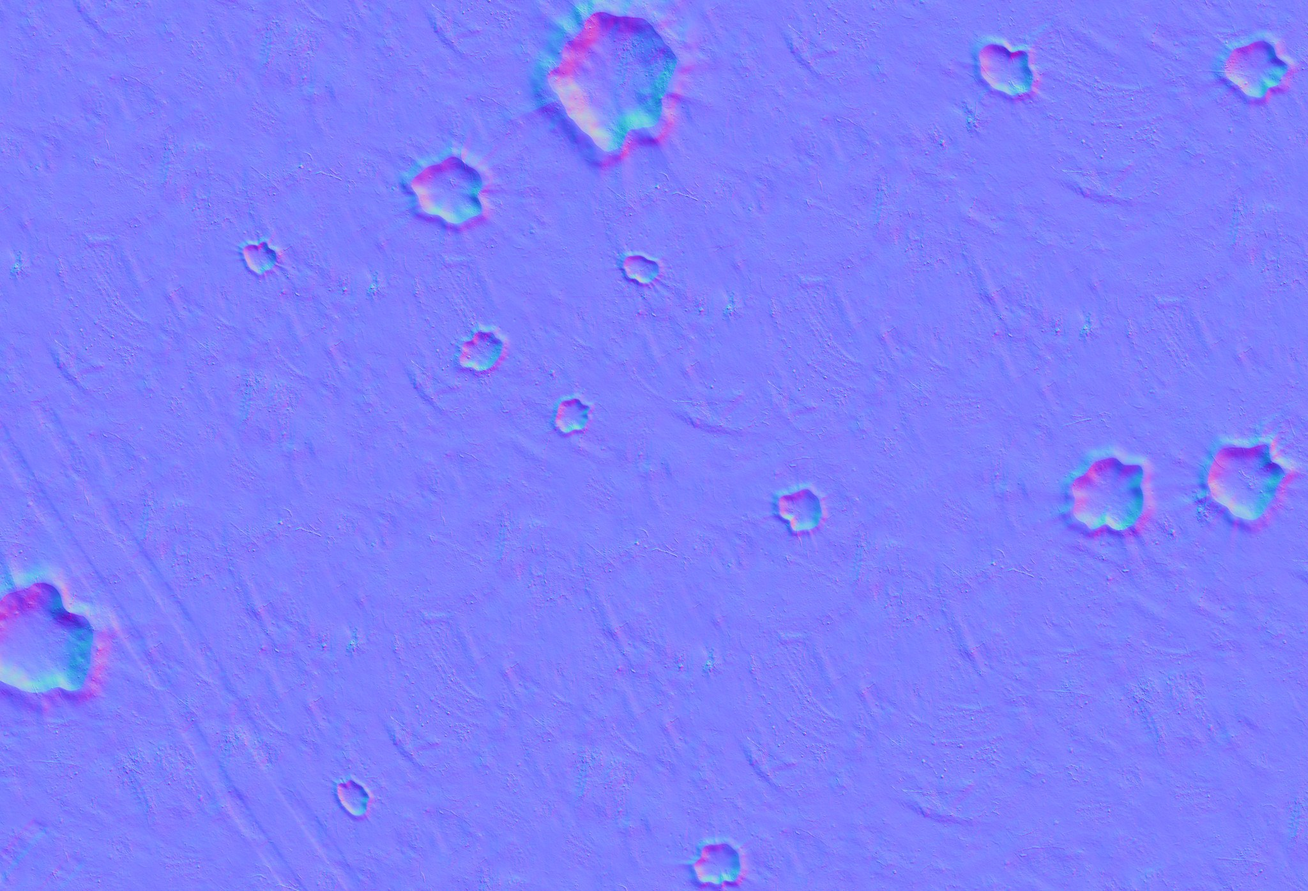
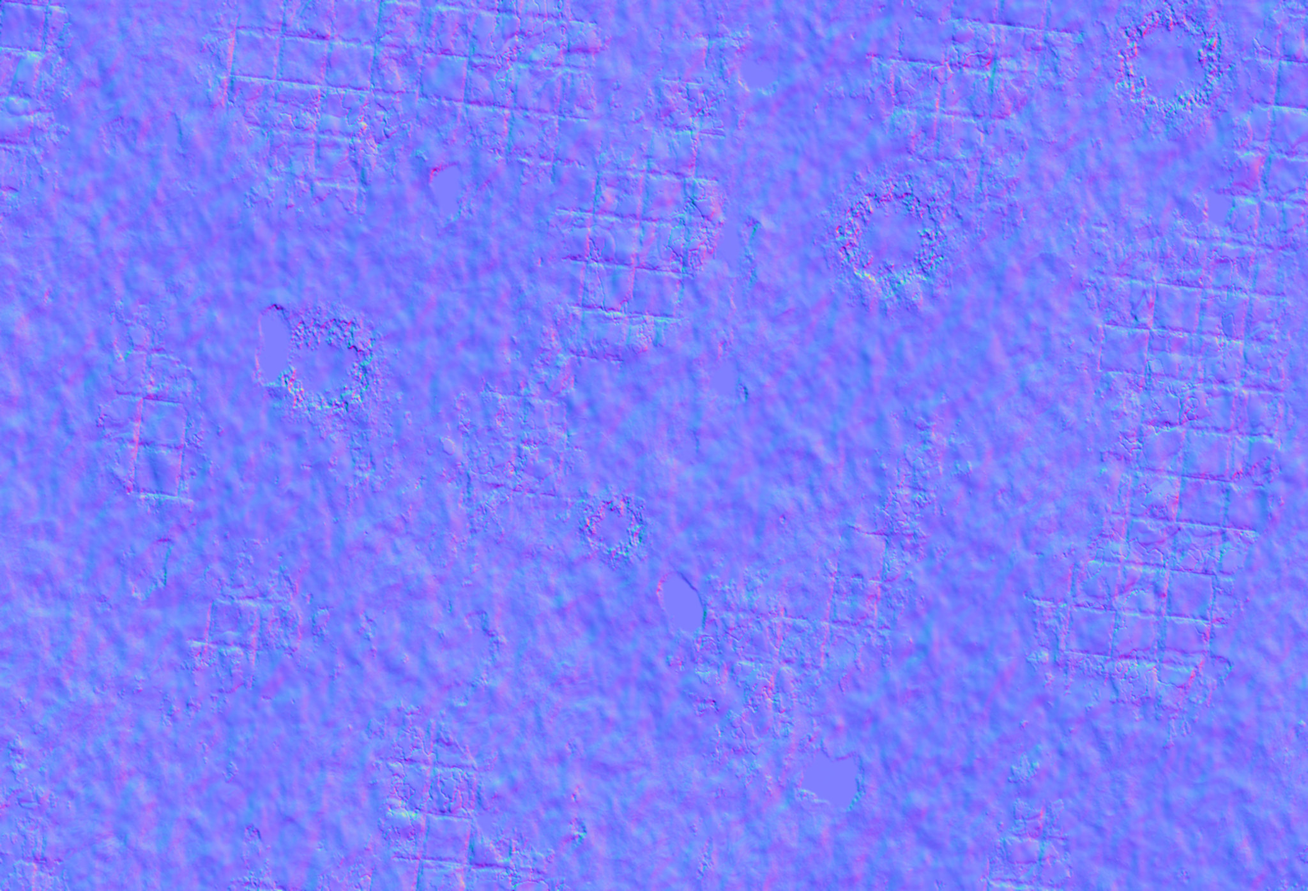
M10: baked de-tiled battlefield mats (paving, dust, scorch) ported from whirr's generator

diff --git a/src/client/board/terrainAssets.ts b/src/client/board/terrainAssets.ts
@@ -77,7 +77,8 @@ export interface PbrTextures {
  *  clone them (see `cloneRepeat`) before setting an instance-specific `.repeat`. */
 export function useTiledPBR(urls: PbrUrls): PbrTextures {
   const [map, normalMap, roughnessMap] = useTexture([urls.map, urls.normalMap, urls.roughnessMap])
-  map.colorSpace = THREE.SRGBColorSpace
+  map.colorSpace = THREE.SRGBColorSpace // albedo is sRGB; normal + roughness stay linear (NoColorSpace)
+  normalMap.colorSpace = roughnessMap.colorSpace = THREE.NoColorSpace
   for (const t of [map, normalMap, roughnessMap]) {
     t.wrapS = t.wrapT = THREE.RepeatWrapping
   }
@@ -115,7 +116,8 @@ export function polygonFootprintSize(polygon: { x: number; z: number }[]): { wid
  *  sRGB diffuse. (Separate from useTiledPBR, which sets RepeatWrapping on the shared cached textures.) */
 export function useBattlefieldPBR(urls: PbrUrls, anisotropy?: number): PbrTextures {
   const [map, normalMap, roughnessMap] = useTexture([urls.map, urls.normalMap, urls.roughnessMap])
-  map.colorSpace = THREE.SRGBColorSpace
+  map.colorSpace = THREE.SRGBColorSpace // albedo is sRGB; normal + roughness stay linear (NoColorSpace)
+  normalMap.colorSpace = roughnessMap.colorSpace = THREE.NoColorSpace
   for (const t of [map, normalMap, roughnessMap]) {
     t.wrapS = t.wrapT = THREE.ClampToEdgeWrapping
     t.repeat.set(1, 1)

diff --git a/src/client/board/Board.tsx b/src/client/board/Board.tsx
@@ -43,8 +43,8 @@ function GroundMesh({
   const battlefieldIndex = useUiStore((s) => s.battlefieldIndex)
   const maxAniso = useThree((s) => s.gl.capabilities.getMaxAnisotropy())
   const invalidate = useThree((s) => s.invalidate)
-  // Stretched once across the mat: image long axis = board x (44"), no tiling.
-  const { map, normalMap, roughnessMap } = useBattlefieldPBR(BATTLEFIELDS[battlefieldIndex].urls, maxAniso)
+  // Baked 2048x1396 mats (art/board-textures/gen_mats.py): 1 texel ~ 1/46.5", mapped once over exactly the board.
+  const { map, normalMap, roughnessMap } = useBattlefieldPBR(BATTLEFIELDS[battlefieldIndex].urls, Math.min(8, maxAniso))
   // frameloop="demand": a texture swap (HUD cycle button) must schedule its own repaint.
   useEffect(() => {
     invalidate()

diff --git a/art/board-textures/gen_mats.py b/art/board-textures/gen_mats.py
@@ -1,0 +1,227 @@
+#!/usr/bin/env python3
+"""Mallet 42k ground mats: baked 2048x1396 albedo/normal/roughness per battlefield (grimdark ruined city).
+Technique ported from the whirr-machine board generator: Poly Haven CC0 photos de-tiled (two scales blended
+by a noise mask through an fBm domain warp, Lanczos prefilter), big colour blotches flattened, then FFT-noise
+features (rubble dust, scorch, flagstone/rockcrete patches with Voronoi cracks, puddles, crater ash) edit
+albedo / height / roughness. Deterministic. Run fetch.py first.
+Usage: python gen_mats.py [slug ...]   -> public/assets/terrain/battlefield/<slug>/{diff,nor,rough}.jpg + preview.jpg"""
+import sys, os, io, numpy as np
+from scipy import ndimage as ndi
+from scipy.spatial import cKDTree
+from PIL import Image, ImageFile
+ImageFile.MAXBLOCK = 1 << 26
+
+HERE = os.path.dirname(os.path.abspath(__file__))
+ROOT = os.path.abspath(os.path.join(HERE, '..', '..'))
+OUT = os.path.join(ROOT, 'public', 'assets', 'terrain', 'battlefield')
+PH = os.environ.get('PH_DIR', os.path.join(HERE, '.cache'))
+W, H = 2048, 1396          # 44" x 30" at ~46.5 px/in, square texels
+YY, XX = np.mgrid[0:H, 0:W].astype(np.float32)
+FX = np.fft.fftfreq(W)[None, :].astype(np.float32)
+FY = np.fft.fftfreq(H)[:, None].astype(np.float32) * (W / H)   # isotropic in pixels
+FR = np.sqrt(FX**2 + FY**2); FR[0, 0] = 1
+
+
+def ss(a, b, x):
+    t = np.clip((x - a) / (b - a), 0, 1); return t * t * (3 - 2 * t)
+
+
+def norm(n):
+    n = n - n.mean(); return (n / (n.std() + 1e-9)).astype(np.float32)
+
+
+def fbm(seed, period=200, p=1.6):
+    spec = np.fft.fft2(np.random.default_rng(seed).standard_normal((H, W)).astype(np.float32))
+    amp = FR ** -p * (1 / (1 + (1.0 / period / FR) ** 4)); amp[0, 0] = 0
+    return norm(np.fft.ifft2(spec * amp).real)
+
+
+def blobs(seed, period, thresh, soft=0.35):
+    return ss(thresh - soft, thresh + soft, fbm(seed, period * 1.7, 3.2))
+
+
+def gblur(a, s): return ndi.gaussian_filter(a, s)
+def col(r, g, b): return np.array([r, g, b], np.float32)
+
+
+def mix(a, b, m):
+    if a.ndim == 3 and m.ndim == 2: m = m[..., None]
+    return a * (1 - m) + b * m
+
+
+def tint(D, mul, sat=1.0, gain=1.0):
+    g = D.mean(-1, keepdims=True); D = g + (D - g) * sat
+    return np.clip(D * np.array(mul, np.float32) * gain, 0, 1)
+
+
+def soften(D, k):
+    m = D.mean((0, 1), keepdims=True); return m + (D - m) * (1 - k)
+
+
+def load(name):
+    d = lambda k: np.asarray(Image.open(os.path.join(PH, f'{name}_{k}.jpg')).convert('RGB'), np.float32) / 255
+    return d('diff'), d('nor'), d('rough')[..., 0]
+
+
+def shrink(a, m):
+    if a.ndim == 2: return shrink(a[..., None].repeat(3, -1), m)[..., 0]
+    return np.asarray(Image.fromarray((np.clip(a, 0, 1) * 255 + 0.5).astype(np.uint8)).resize((m, m), Image.LANCZOS), np.float32) / 255
+
+
+def layer(name, seed, scale=1.0, warpamp=8):
+    """Photo repeated `scale` times across the 44" width, sampled at two scales, noise-blended, domain-warped."""
+    full = load(name); out = []
+    for i, s in enumerate((scale, scale * 1.37)):
+        m = max(64, int(round(W / s)))
+        diff, nor, rough = (shrink(a, m) for a in full) if m < full[0].shape[0] else full
+        m = diff.shape[0]
+        rng = np.random.default_rng(seed + i); oy, ox = rng.uniform(0, m, 2)
+        wx = fbm(seed + 20 + i, 260, 2.0) * warpamp; wy = fbm(seed + 30 + i, 260, 2.0) * warpamp
+        c = [((YY + wy) * (s * m / W) + oy) % m, ((XX + wx) * (s * m / W) + ox) % m]
+        smp = lambda a: ndi.map_coordinates(a, c, order=1, mode='grid-wrap')
+        out.append((np.stack([smp(diff[..., k]) for k in range(3)], -1),
+                    np.stack([smp(nor[..., k]) for k in range(2)], -1) - 0.5, smp(rough)))
+    m = blobs(seed + 50, 380, 0.0, 0.6)
+    D = mix(out[0][0], out[1][0], m); Nn = mix(out[0][1], out[1][1], m); R = out[0][2] * (1 - m) + out[1][2] * m
+    lum = D.mean(-1); D = D * (lum.mean() / (gblur(lum, 80) + 1e-3))[..., None] ** 0.9
+    return np.clip(D, 0, 1), Nn, R
+
+
+def voronoi_edges(seed, n, warp=0.0, wper=150):
+    pts = np.random.default_rng(seed).uniform(0, 1, (n, 2)) * [W, H]
+    qx, qy = XX, YY
+    if warp: qx = XX + fbm(seed + 1, wper, 2.0) * warp; qy = YY + fbm(seed + 2, wper, 2.0) * warp
+    d, _ = cKDTree(pts).query(np.stack([qx.ravel(), qy.ravel()], 1), k=2, workers=-1)
+    return (d[:, 1] - d[:, 0]).reshape(H, W).astype(np.float32)
+
+
+def craters(seed, n, rmin, rmax):
+    """Blast craters: returns (bowl, rim, ash) masks; radii in px."""
+    rng = np.random.default_rng(seed)
+    bowl = np.zeros((H, W), np.float32); rim = bowl.copy(); ash = bowl.copy()
+    wob = fbm(seed + 1, 40, 1.5)
+    for _ in range(n):
+        cx, cy = rng.uniform(80, W - 80), rng.uniform(80, H - 80); r = rng.uniform(rmin, rmax)
+        x0, x1 = int(max(cx - r * 3, 0)), int(min(cx + r * 3, W)); y0, y1 = int(max(cy - r * 3, 0)), int(min(cy + r * 3, H))
+        d = np.hypot(XX[y0:y1, x0:x1] - cx, YY[y0:y1, x0:x1] - cy) / r + 0.12 * wob[y0:y1, x0:x1]
+        bowl[y0:y1, x0:x1] = np.maximum(bowl[y0:y1, x0:x1], 1 - ss(0.5, 1.0, d))
+        rim[y0:y1, x0:x1] = np.maximum(rim[y0:y1, x0:x1], np.exp(-((d - 1.05) / 0.2) ** 2))
+        ash[y0:y1, x0:x1] = np.maximum(ash[y0:y1, x0:x1], (1 - ss(0.9, 3.0, d)) * 0.9)
+    return bowl, rim, ash
+
+
+def save(a, path, limit=880, gray=False):
+    im = Image.fromarray((np.clip(a, 0, 1) * 255 + 0.5).astype(np.uint8))
+    if gray: im = im.convert('L')
+    for q in (92, 88, 84, 80, 76, 72, 68, 62, 56, 50, 44):
+        b = io.BytesIO(); im.save(b, 'JPEG', quality=q, optimize=True, subsampling=0 if q > 85 else 2)
+        if b.tell() <= limit * 1000: break
+    open(path, 'wb').write(b.getvalue()); print(path, b.tell() // 1000, 'KB q', q, flush=True)
+
+
+def finish(alb, Nn, rough, h, strength, slug, vig=0.10):
+    r = np.hypot(XX / W - .5, (YY / H - .5) * 0.68) * 2
+    alb = alb * (1 - vig * ss(0.55, 1.2, r))[..., None]
+    gx = np.gradient(h, axis=1); gy = np.gradient(h, axis=0)
+    k = (strength / 120) / (np.percentile(np.hypot(gx, gy), 95) + 1e-6)   # fixed 95th-percentile tilt (no flat-normal camo)
+    nx = gblur(1.4 * Nn[..., 0] - gx * k, 1.0); ny = gblur(1.4 * Nn[..., 1] + gy * k, 1.0)
+    nz = np.sqrt(np.clip(1 - nx ** 2 - ny ** 2, 0.05, 1))
+    n3 = np.stack([nx, ny, nz], -1); n3 /= np.linalg.norm(n3, axis=-1, keepdims=True)
+    d = os.path.join(OUT, slug); os.makedirs(d, exist_ok=True)
+    save(alb, os.path.join(d, 'diff.jpg')); save(n3 * 0.5 + 0.5, os.path.join(d, 'nor.jpg'), 900)
+    save(np.clip(rough, 0, 1), os.path.join(d, 'rough.jpg'), 800, gray=True)
+
+
+def slab_pattern(seed, cell=74, ang=0.12):
+    """Rectilinear paving: per-slab ids rotated by `ang`. Returns (gap line mask, slab id hash, slab-local 0..1 u,v)."""
+    c, sn = np.cos(ang), np.sin(ang)
+    u = (XX * c + YY * sn) / cell; v = (-XX * sn + YY * c) / cell
+    iu, iv = np.floor(u), np.floor(v); fu, fv = u - iu, v - iv
+    hsh = ((np.sin(iu * 127.1 + iv * 311.7 + seed) * 43758.5453) % 1.0).astype(np.float32)
+    jit = 0.02 * fbm(seed, 30, 1.5)
+    gap = 1 - ss(0.01, 0.11, np.minimum.reduce([fu, 1 - fu, fv, 1 - fv]) + jit)
+    return gap, hsh
+
+
+def ruined(slug, seed, base, base2, scale, base_tint, fl):
+    """Shared grimdark ruined-city recipe; `fl` tunes the features per battlefield. Large-scale variation stays gentle."""
+    s = seed
+    A = layer(base, s, scale); B = layer(base2, s + 100, scale * 0.8)
+    F = layer('cobblestone_floor_08', s + 200, 2.4)          # slab grain
+    AP = layer('burned_ground_01', s + 300, 4.0)
+    mixm = blobs(s + 3, 300, 0.1, 0.6)
+    D = mix(tint(soften(A[0], 0.1), *base_tint), tint(soften(B[0], 0.15), *base_tint), mixm * 0.5)
+    Nn = mix(A[1], B[1], mixm[..., None] * 0.5); R = mix(A[2], B[2], mixm * 0.5)
+    h = gblur(fbm(s + 4, 90, 2.0), 3) * 0.4
+    lowfreq = 1 + 0.07 * fbm(s + 6, 400, 2.0)               # gentle +-10% large-scale value drift
+    D = D * lowfreq[..., None]
+    # paved patches: few, large, eroded borders, tinted toward the ground colour
+    big = fbm(s + 5, 520, 3.0) + 0.35 * fbm(s + 7, 60, 1.6)
+    reg = ss(fl['slab'], fl['slab'] + 0.5, big + 0.0)
+    gap, hs = slab_pattern(s + 8)
+    present = ss(0.14, 0.2, hs)                              # ~15% of slabs missing -> broken up
+    pav = reg * present
+    gv = ss(0.0, 1.0, gblur(F[0].mean(-1), 1.2) / (F[0].mean() + 1e-3) * 0.5)
+    base_mean = D.mean((0, 1))
+    gm = base_mean.mean(); slab_col = ((base_mean * 0.6 + gm * 0.4) * np.array(fl['slab_tint'], np.float32) * 1.0)[None, None] * (0.85 + 0.3 * (F[0].mean(-1, keepdims=True) / (F[0].mean() + 1e-3)) * 0.5 + 0.3 * (hs - 0.5)[..., None])
+    D = mix(D, slab_col, pav * 0.92); Nn = mix(Nn, F[1], (pav * 0.7)[..., None]); R = mix(R, F[2] * 0.9 + 0.06, pav * 0.8)
+    h = h + pav * 0.35 - gap * reg * 0.5
+    D = D * (1 - gap * reg * present * 0.4)[..., None]
+    e1 = voronoi_edges(s + 10, 220, 25, 140)
+    crack = np.exp(-(np.clip(e1 - 1, 0, None) / 1.8) ** 2) * pav * blobs(s + 12, 160, 0.0, 0.5)
+    D = D * (1 - crack * 0.5)[..., None]; h = h - crack * 0.5
+    # rubble dust
+    dust = blobs(s + 20, 150, fl['dust'], 0.5) * (0.45 + 0.55 * ss(-0.5, 1.2, fbm(s + 21, 24, 1.4)))
+    D = mix(D, tint(D, fl['dust_tint'], 0.6, 1.1), dust * 0.4); R = mix(R, np.full_like(R, 0.96), dust * 0.5)
+    h = h + dust * 0.12
+    # a few blast marks: soft radial falloff, lighter ash ring, <=35% darker than base
+    bowl, rim, ash = craters(s + 30, fl['craters'], 45, 95)
+    ring = gblur(rim, 6)
+    D = D * (1 - 0.35 * ash * (1 - 0.5 * ring))[..., None]
+    D = mix(D, tint(D, (1.0, 1.0, 1.0), 0.4, 1.15), ring * 0.5)
+    D = D * (1 - 0.25 * bowl)[..., None]
+    Nn = mix(Nn, AP[1], (ash * 0.4)[..., None]); R = mix(R, np.full_like(R, 0.92), ash * 0.5)
+    h = h - bowl * 0.9 + rim * 0.4
+    # puddles in low spots: satin, subtle (roughness >= 0.34 so it never glitters)
+    low = norm(gblur(fbm(s + 40, 220, 2.2), 6)) + 0.15 * fbm(s + 41, 60, 1.6)
+    wet = np.clip(ss(fl['wet'] + 0.5, fl['wet'] + 1.3, low) + bowl * fl['bowl_wet'] * 0.6, 0, 1)
+    sheen = 0.5 + 0.5 * fbm(s + 42, 120, 2.0)
+    water = D * 0.55 * (0.9 + 0.2 * sheen)[..., None]
+    D = mix(D, water, wet * 0.8); R = mix(R, np.full_like(R, 0.34), wet * 0.95); Nn = Nn * (1 - wet[..., None] * 0.95)
+    h = h * (1 - wet) - wet * 0.6
+    # pebble / shell-casing speckle
+    sp = ss(0.05, 0.2, gblur((np.random.default_rng(s).random((H, W)) > 0.998).astype(np.float32), 1.6))
+    D = mix(D, col(0.5, 0.47, 0.42), sp * 0.6 * (1 - wet)); h = h + sp * 0.4
+    finish(D, Nn, R, h, fl['normal'], slug, 0.12)
+
+
+# slug: (seed, base photo, 2nd photo, photo repeats across 44", (mul, sat, gain), flavour)
+BOARDS = {
+    'aerialrock': (1100, 'aerial_ground_rock', 'rocks_ground_08', 3.6, ((0.95, 0.92, 0.88), 0.85, 0.95),
+                   dict(slab=0.5, slab_tint=(1.0, 1.0, 1.0), dust=0.3, dust_tint=(1.0, 0.98, 0.94), craters=4, scorch=0.5, wet=1.15, bowl_wet=0.25, normal=55)),
+    'dirt': (1200, 'dirt_aerial_02', 'burned_ground_01', 4.0, ((1.0, 0.92, 0.82), 0.9, 1.0),
+             dict(slab=0.8, slab_tint=(1.0, 1.0, 1.0), dust=0.5, dust_tint=(1.0, 0.94, 0.85), craters=4, scorch=0.2, wet=1.05, bowl_wet=0.4, normal=55)),
+    'dryrocks': (1300, 'dry_ground_rocks', 'dirt_aerial_02', 3.2, ((0.95, 0.9, 0.84), 0.85, 0.95),
+                 dict(slab=0.9, slab_tint=(1.0, 1.0, 1.0), dust=0.05, dust_tint=(1.0, 0.97, 0.9), craters=4, scorch=0.35, wet=1.3, bowl_wet=0.15, normal=60)),
+    'rocks08': (1400, 'rocks_ground_08', 'aerial_ground_rock', 3.4, ((0.9, 0.9, 0.9), 0.7, 0.92),
+                dict(slab=1.3, slab_tint=(1.0, 1.0, 1.0), dust=0.25, dust_tint=(0.98, 0.98, 1.0), craters=4, scorch=0.3, wet=0.95, bowl_wet=0.35, normal=55)),
+    'crackmud': (1500, 'mud_cracked_dry_03', 'dirt_aerial_02', 2.6, ((1.0, 0.93, 0.8), 0.9, 0.95),
+                 dict(slab=0.7, slab_tint=(1.0, 1.0, 1.0), dust=0.4, dust_tint=(1.0, 0.95, 0.85), craters=4, scorch=0.35, wet=1.0, bowl_wet=0.5, normal=50)),
+    'laterite': (1600, 'red_laterite_soil_stones', 'dirt_aerial_02', 3.4, ((1.0, 0.88, 0.8), 0.95, 0.98),
+                 dict(slab=0.9, slab_tint=(1.0, 1.0, 1.0), dust=0.35, dust_tint=(1.0, 0.9, 0.82), craters=4, scorch=0.1, wet=1.05, bowl_wet=0.35, normal=55)),
+}
+
+
+def preview():
+    sheet = Image.new('RGB', (683 * 3, 465 * 2))
+    for i, slug in enumerate(BOARDS):
+        im = Image.open(os.path.join(OUT, slug, 'diff.jpg')).resize((683, 465), Image.LANCZOS)
+        sheet.paste(im, ((i % 3) * 683, (i // 3) * 465))
+    sheet.save(os.path.join(HERE, 'preview.jpg'), quality=85); print('preview.jpg')
+
+
+if __name__ == '__main__':
+    todo = sys.argv[1:] or list(BOARDS)
+    for b in todo:
+        print('==', b, flush=True); ruined(b, *BOARDS[b])
+    if not sys.argv[1:]: preview()

diff --git a/art/board-textures/fetch.py b/art/board-textures/fetch.py
@@ -1,0 +1,14 @@
+#!/usr/bin/env python3
+"""Fetch the CC0 Poly Haven 2k sources used by gen_mats.py into ./.cache (gitignored)."""
+import json, os, urllib.request
+CACHE = os.path.join(os.path.dirname(os.path.abspath(__file__)), '.cache')
+IDS = ('aerial_ground_rock dirt_aerial_02 dry_ground_rocks rocks_ground_08 red_laterite_soil_stones '
+       'mud_cracked_dry_03 burned_ground_01 cobblestone_floor_08').split()
+os.makedirs(CACHE, exist_ok=True)
+for i in IDS:
+    d = json.load(urllib.request.urlopen(urllib.request.Request(f'https://api.polyhaven.com/files/{i}', headers={'User-Agent': 'x'})))
+    for k, n in (('Diffuse', 'diff'), ('nor_gl', 'nor'), ('Rough', 'rough')):
+        p = os.path.join(CACHE, f'{i}_{n}.jpg')
+        if not os.path.exists(p):
+            urllib.request.urlretrieve(d[k]['2k']['jpg']['url'], p)
+    print(i, flush=True)

diff --git a/public/assets/terrain/CREDITS.md b/public/assets/terrain/CREDITS.md
@@ -18,4 +18,9 @@ no attribution required, used here anyway as a courtesy). Downloaded at 1k resol
 | Battlefield `crackmud` (derived from mud_cracked_dry_03) | https://polyhaven.com/a/mud_cracked_dry_03 | Board ground, stretched once over the 44x30 mat (public/assets/terrain/battlefield/crackmud/); derived from the CC0 Poly Haven texture with procedural battle damage added in-house |
 | Battlefield `laterite` (derived from red_laterite_soil_stones) | https://polyhaven.com/a/red_laterite_soil_stones | Board ground, stretched once over the 44x30 mat (public/assets/terrain/battlefield/laterite/); derived from the CC0 Poly Haven texture with procedural battle damage added in-house |
 
+| Cobblestone Floor 08 | https://polyhaven.com/a/cobblestone_floor_08 | Flagstone / rockcrete patches baked into every battlefield mat |
+| Burned Ground 01 | https://polyhaven.com/a/burned_ground_01 | Scorch / crater-ash layer baked into every battlefield mat |
+
+Battlefield mats are now baked offline (art/board-textures/gen_mats.py, 2048x1396 albedo/normal/roughness, de-tiled photo layers plus procedural rubble, scorch, craters, puddles); `dirt`, `dryrocks`, `rocks08` also blend in `aerial_ground_rock` / `dirt_aerial_02`.
+
 License: [CC0 1.0](https://creativecommons.org/publicdomain/zero/1.0/) for every asset above.
